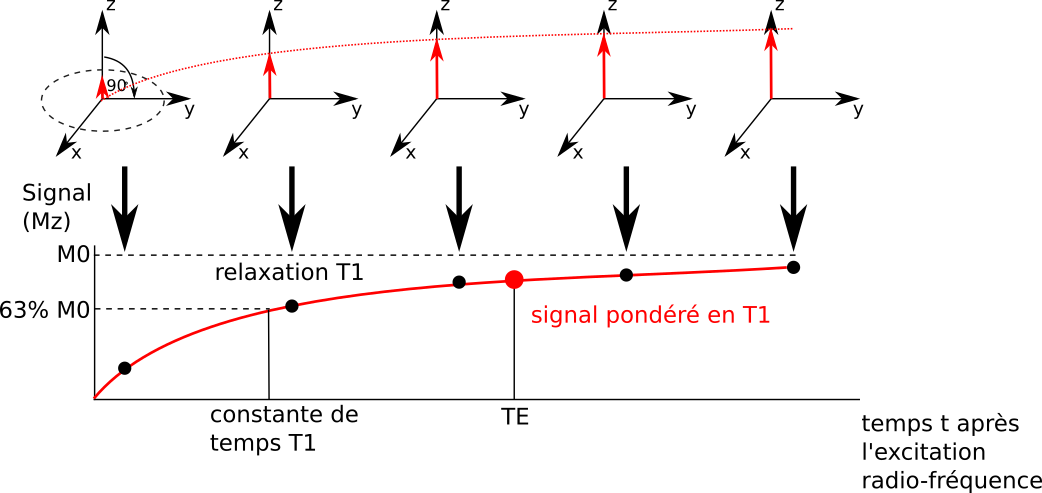
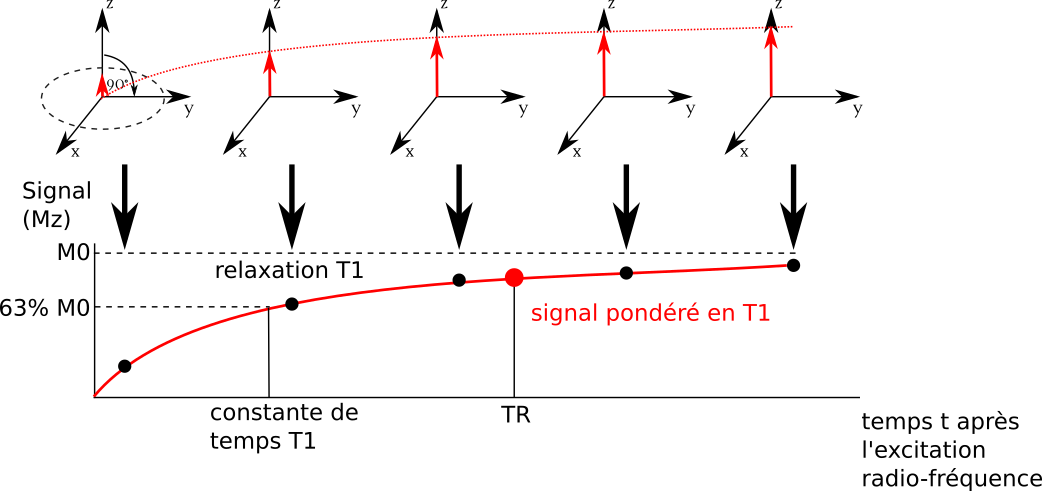
Corriger la pondération T1: c'est le TR, pas le TE
La courbe de repousse longitudinale était décrite comme échantillonnée au TE,
dans le texte, dans la figure t1.svg et dans le code de relax-t1-fig. Le TE est
le délai jusqu'à la lecture de l'aimantation transverse; ce qui fixe le point
atteint sur la repousse, et donc le contraste T1, est le TR. La figure 3 de
Ridgway (2010), dont t1.svg est l'adaptation, ne porte aucune marque TE.

Ajoute au passage la raison pour laquelle un TR est nécessaire: l'antenne ne
détecte que l'aimantation transverse, donc lire la repousse suppose de
rebasculer l'aimantation.

Autres corrections du même chapitre:
- les T1 des trois tissus étaient inversés dans le code de relax-t1-fig (les
  valeurs du bloc T2 y avaient été recopiées); le LCR a le T1 le plus long
- ylabel de la courbe T2: Mz -> Mxy
- la composante transverse est nommée Mxy et non "selon B1", qui est un champ
  tournant et éteint pendant la relaxation
- ouverture des appareils: 70 et 60 cm de diamètre, non de rayon; Aeara -> Aera
- fréquence d'excitation à 3T: 128 MHz et non 120
- liens vers psy3018.github.io remplacés par des renvois MyST internes
- l'encadré sur l'angle de bascule explique maintenant son effet sur le TR,
  ce que l'exercice 5 demandait sans que le texte le dise
- une section sur les familles de séquences (écho de spin, écho de gradient) et
  quelques noms courants: MPRAGE, FLAIR, EPI
- mention du SAR, supraconductrice, miroirs

Corrige enfin un bug latent des deux cellules de figures: importer
[…]

diff --git a/methodes_neurocog/irm.md b/methodes_neurocog/irm.md
@@ -29,7 +29,7 @@ name: irm-schema-fig
 Illustration schématique des principales composantes d'un appareil IRM. Figure générée par P. Bellec, 2021, sous licence CC-BY.
 ```
 {numref}`irm-schema-fig` nous permet d'observer les éléments principaux d'un appareil IRM, et en particulier:
- * L'**aimant**: il s'agit d'une bobine qui génère un champ magnétique très important. Cette bobine est plongée dans de l'hélium liquide, proche du zéro absolu, ce qui la rend supra-condutrice: le courant électrique qui la traverse ne subit pas de perte d'énergie, et peut continuer de circuler pendant très longtemps. Pour cette raison, l'aimant de l'IRM continue de fonctionner en permanence, même quand on n'utilise pas la machine.
+ * L'**aimant**: il s'agit d'une bobine qui génère un champ magnétique très important. Cette bobine est plongée dans de l'hélium liquide, proche du zéro absolu, ce qui la rend supraconductrice: le courant électrique qui la traverse ne subit pas de perte d'énergie, et peut continuer de circuler pendant très longtemps. Pour cette raison, l'aimant de l'IRM continue de fonctionner en permanence, même quand on n'utilise pas la machine.
 
  * Les **bobines de gradient**: permettent de faire varier l'intensité du champ magnétique dans l'espace. Durant l'acquisition des images, les gradients sont activés puis arrêtés plusieurs fois. Les gradients peuvent être produits dans toutes les directions.  
 
@@ -65,7 +65,8 @@ HTML('<iframe width="560" height="315" src="https://www.youtube.com/embed/bq6Iha
 
 ```{admonition} IRM et sécurité
 L’IRM est non invasif: il n’existe pas d’effet adverse connu sur la santé de l’exposition à un champ magnétique fort.
-En revanche, il faut s’assurer qu’il n’y ait pas de contre-indications, telles que la présence de certains métaux dans le corps ou des équipements médicaux tels qu’un pace maker.
+Les impulsions radio-fréquence déposent en revanche de l’énergie dans les tissus, sous forme de chaleur. Cette dose, appelée SAR (_specific absorption rate_), est surveillée en permanence et plafonnée par l’appareil.
+Il faut également s’assurer qu’il n’y ait pas de contre-indications, telles que la présence de certains métaux dans le corps ou des équipements médicaux tels qu’un pace maker.
 Le champ magnétique peut également attirer les objets métalliques et provoquer des accidents. Pour cette raison le personnel qui opère dans une salle d’IRM doit recevoir une formation adéquate aux mesures de sécurité.
 ```
 
@@ -87,7 +88,7 @@ Un atome d'hydrogène possède une fréquence de Larmor de 42.58 MHz/Tesla. Cett
 En l'absence de champ magnétique, les spins des atomes d'hydrogène pointent dans des directions aléatoires dans les tissus cérébraux. L'aimant de l'IRM contribue à aligner le moment magnétique des protons selon le même axe que le champ magnétique principal, appelé B0. Ce champ B0 va des pieds vers la tête. La force de l'aimant principal est mesurée en Teslas (T). Les appareils de 1.5T sont utilisés principalement à des fins cliniques alors qu'en recherche, le standard est plutôt de 3T, ce qui est environ 60000 fois plus puissant que le champ magnétique terrestre! Les appareils à 7T représentent à ce jour la nouvelle frontière utilisée en recherche, et quelques appareils à 10T+ existent dans le monde. Mais pourquoi voudrions-nous augmenter la force du champ magnétique? En augmentant la force du champ magnétique, nous pouvons gagner en résolution spatiale et temporelle. Par contre, augmenter la force du champ magnétique peut également introduire des artefacts!
 
 ```{admonition} Taille et poids d'un appareil IRM
-La taille et le poids d'un appareil IRM peut varier beaucoup. Par exemple, l'IRM 1.5T de type Aeara de la compagnie Siemens pèse 4.3 tonnes, et a une ouverture (le tube dans lequel entre la personne qui fait l'examen) de 70 cm de rayon. L'appareil 3T de type Prisma de Siemens pèse 13 tonnes et a une ouverture de 60 cm de rayon. Enfin, L'IRM 7T de type Terra de Siemens fait lui presque 25 tonnes, avec la même taille d'ouverture que l'appareil à 3T! En général, plus la force du champ magnétique B0 est grande et plus l'appareil est lourd.
+La taille et le poids d'un appareil IRM peut varier beaucoup. Par exemple, l'IRM 1.5T de type Aera de la compagnie Siemens pèse 4.3 tonnes, et a une ouverture (le tube dans lequel entre la personne qui fait l'examen) de 70 cm de diamètre. L'appareil 3T de type Prisma de Siemens pèse 13 tonnes et a une ouverture de 60 cm de diamètre. Enfin, L'IRM 7T de type Terra de Siemens fait lui presque 25 tonnes, avec la même taille d'ouverture que l'appareil à 3T! En général, plus la force du champ magnétique B0 est grande et plus l'appareil est lourd.
 ```
 
 
@@ -111,7 +112,7 @@ Nous pouvons penser à la résonance comme un mouvement de balançoire. Si nous 
 
 L'IRM exploite ce phénomène de résonance. **L'antenne radio-fréquence (RF)** crée une série d'**ondes radio-fréquences** dans la direction perpendiculaire au champ B0, c'est-à-dire en direction du champ B1. En produisant une série d'impulsions suivant la fréquence de Larmor de l'hydrogène, les atomes d'hydrogène entrent en résonance et basculent dans la direction perpendiculaire.
 
-En arrêtant les impulsions, les atomes d'hydrogène entrent en relaxation, c'est-à-dire que leur moment magnétique va retourner dans la direction initiale B0. Autrement dit, le moment magnétique en direction B1 décroît pour revenir dans la direction B0. Ce phénomène de relaxation est très important, car la vitesse de la relaxation va dépendre des caractéristiques des tissus qui ont été excités. La vitesse de relaxation est mesurée par les antennes de réception placées dans le casque autour de la tête du sujet!
+En arrêtant les impulsions, les atomes d'hydrogène entrent en relaxation, c'est-à-dire que leur moment magnétique va retourner dans la direction initiale B0. Autrement dit, la composante transverse du moment magnétique, dans le plan perpendiculaire à B0, décroît pendant que la composante alignée sur B0 repousse. Ce phénomène de relaxation est très important, car la vitesse de la relaxation va dépendre des caractéristiques des tissus qui ont été excités. La vitesse de relaxation est mesurée par les antennes de réception placées dans le casque autour de la tête du sujet!
 
 ```{admonition} Mise en phase
 :class: tip
@@ -121,7 +122,7 @@ Il est important de comprendre que le signal que nous mesurons en IRM ne provien
 ```
 
 ```{admonition} Pourquoi radio?
-Comme nous l'avons vu, la fréquence de Larmor de l'hydrogène est de 42.58 MHz/Tesla. Dans un IRM à 3T, nous allons donc exciter avec une onde à une fréquence d'environ 120 MHz, soit 120 millions d'ondes par seconde (!). Ce type de fréquences tombe dans le domaine des [ondes radio](https://fr.wikipedia.org/wiki/Onde_radio).
+Comme nous l'avons vu, la fréquence de Larmor de l'hydrogène est de 42.58 MHz/Tesla. Dans un IRM à 3T, nous allons donc exciter avec une onde à une fréquence d'environ 128 MHz, soit près de 128 millions d'ondes par seconde (!). Ce type de fréquences tombe dans le domaine des [ondes radio](https://fr.wikipedia.org/wiki/Onde_radio).
 ```
 
 ## Sélection de coupes et formation d'images  
@@ -167,10 +168,10 @@ Les contrastes $T_1$ et $T_2$ sont les paramètres principaux acquis durant une 
 width: 800px
 name: t1-fig
 ---
-Le processus de relaxation $T_1$. Pour un voxel donné, on mesure la repousse du champ magnétique selon l'axe $B_0$. La vitesse de cette repousse dépend de deux paramètres: la valeur d'équilibre $M_0$ et le temps $T_1$. En général, on ne mesure qu'un seul point de la courbe, au temps `TE`, et on parle alors de signal pondéré en $T_1$. Figure adaptée de {cite:p}`Ridgway2010-dc` sous license [CC-BY 2.0](https://creativecommons.org/licenses/by/2.0).
+Le processus de relaxation $T_1$. Pour un voxel donné, on mesure la repousse de l'aimantation selon l'axe $B_0$. La vitesse de cette repousse dépend de deux paramètres: la valeur d'équilibre $M_0$ et le temps $T_1$. En général, on ne laisse pas la repousse aller à son terme: on lit le signal au bout d'un temps `TR`, et on parle alors de signal pondéré en $T_1$. Figure adaptée de {cite:p}`Ridgway2010-dc` sous license [CC-BY 2.0](https://creativecommons.org/licenses/by/2.0).
 ```
 
-**Pondération en $T_1$**. Pour estimer le paramètre $T_1$, il est nécessaire d'effectuer plusieurs mesures au cours du temps pour évaluer la croissance de la courbe. En général, on ne mesure qu'un seul point de la courbe, au temps `TE`, et on parle alors de signal pondéré en $T_1$. Si le paramètre $T_1$ augmente, cela veut dire que la courbe croit plus lentement, et le signal pondéré en $T_1$ va diminuer. Différents tissus (matière grise, matière blanche, liquide céphalo-rachidien) ont des caractéristiques $T_1$ différentes, ce qui permet d'obtenir des images d'IRM structurelle.
+**Pondération en $T_1$**. Pour estimer le paramètre $T_1$, il est nécessaire d'effectuer plusieurs mesures au cours du temps pour évaluer la croissance de la courbe. En général, on ne mesure qu'un seul point de la courbe. L'antenne ne peut pas mesurer directement l'aimantation $M_z$, qui est alignée sur $B_0$: pour lire où en est la repousse, il faut d'abord rebasculer l'aimantation dans le plan transverse. Le temps laissé à la repousse avant cette lecture s'appelle le `TR`. On parle alors de signal pondéré en $T_1$. Si le paramètre $T_1$ augmente, cela veut dire que la courbe croit plus lentement, et le signal pondéré en $T_1$ va diminuer. Différents tissus (matière grise, matière blanche, liquide céphalo-rachidien) ont des caractéristiques $T_1$ différentes, ce qui permet d'obtenir des images d'IRM structurelle.
 
 ```{code-cell} ipython 3
 :tags: ["hide-input", "remove-output"]
@@ -180,17 +181,24 @@ import warnings
 warnings.filterwarnings("ignore")
 
 # Importer les librairies nécessaires
+# Note: nilearn.plotting doit être importé AVANT de créer la figure. Son import
+# bascule le backend matplotlib, ce qui vide le registre des figures de pyplot et
+# détacherait une figure déjà ouverte.
 import matplotlib.pyplot as plt
 import numpy as np
+from nilearn.datasets import fetch_icbm152_2009
+from nilearn.plotting import plot_anat
 
 # Initialise la figure
 fig = plt.figure(figsize=(15, 5))
 
 # Fonctions exponentielles pour les courbes T1 (à titre d'exemple seulement)
+# Le liquide céphalo-rachidien a le T1 le plus long et la densité de protons la
+# plus élevée; la matière blanche le T1 le plus court et la densité la plus faible.
 t = np.linspace(0,5,100)
-y1 = 70 * (1 - np.exp(-t / 1.2))
-y2 = 85 * (1 - np.exp(-t / 1.3))
-y3 = 100 * (1 - np.exp(-t / 1.5))
+y1 = 100 * (1 - np.exp(-t / 4.0))
+y2 = 84 * (1 - np.exp(-t / 1.3))
+y3 = 70 * (1 - np.exp(-t / 0.85))
 
 # Tracer la figure
 ax_plot = plt.subplot(1, 3, 1)
@@ -198,9 +206,7 @@ plt.plot(t, y1, label="Liquide céphalo-rachidien")
 plt.plot(t, y2, label="matière grise")
 plt.plot(t, y3, label="matière blanche")
 plt.vlines(1, 0, 60, colors="black", linestyles="--")
-plt.text(1, 60, "TE")
-plt.vlines(4, 0, 60, colors="black", linestyles="--")
-plt.text(4, 60, "TR")
+plt.text(1, 60, "TR")
 plt.xlabel("Temps", loc="right")
 plt.ylabel("Mz", loc="top")
 plt.title("Courbe en T1")
@@ -208,10 +214,7 @@ plt.legend()
 plt.gca().axes.yaxis.set_ticklabels([])
 plt.gca().axes.xaxis.set_ticklabels([])
 
-#Importer les modules requis et le jeu de données
-from nilearn.datasets import fetch_icbm152_2009
-from nilearn.plotting import plot_anat
-
+# Charger le jeu de données
 data_mri = fetch_icbm152_2009()
 
 # afficher l'image pondérée en T1
@@ -230,7 +233,7 @@ fig.savefig(
 ---
 name: relax-t1-fig
 ---
-Relaxation longitudinale et contraste $T_1$. Image de gauche: croissance du champ magnétique selon l'axe $B_0$, appelé $M_{z}$. Notez que différents types de tissus présentent des courbes distinctes de relaxation longitudinale. Image de droite: une image générée par lecture au temps $TE$ (pondéré en $T_1$) présente un contraste entre les différents types de tissus. Cette figure est générée par du code python, cliquer sur + pour voir le code.
+Relaxation longitudinale et contraste $T_1$. Image de gauche: croissance de la composante de l'aimantation selon l'axe $B_0$, appelée $M_{z}$. Notez que différents types de tissus présentent des courbes distinctes de relaxation longitudinale. Image de droite: une image générée par lecture au temps $TR$ (pondéré en $T_1$) présente un contraste entre les différents types de tissus. Cette figure est générée par du code python, cliquer sur + pour voir le code.
 ```
 
 ```{admonition} M0
@@ -239,17 +242,17 @@ Relaxation longitudinale et contraste $T_1$. Image de gauche: croissance du cham
 À l'état d'équilibre, la contribution du moment magnétique selon l'axe $B_0$ est appelée $M_0$. Cette valeur dépend de la densité de protons dans les tissus, c'est-à-dire du nombre d'atomes d'hydrogène présents dans le tissu. Ainsi, d'un voxel à un autre, nous n'obtenons pas nécessairement la même valeur de $M_0$. Il est possible d'imager ce paramètre, et on parle alors d'image en densité de protons (PD en anglais, pour proton density).
 ```
 
-**Relaxation en $T_2$**. La diminution de la composante selon $B_1$ (composante $M_{xy}$), ou _relaxation transverse_, suit une fonction exponentielle décroissante. Le temps caractéristique de cette décroissance (la vitesse de décroissance) s'appelle le $T_2$. Le temps $T_2$ correspond au temps écoulé pour obtenir 37% de la valeur de la contribution du moment magnétique initial selon l'axe $B_1$. Pour ceux qui sont à l'aise avec les expressions mathématiques, la décroissance en $B_1$ suit l'équation $M_{xy}(t) = M_1 e^{-t / T_2}$. La constante $M_1$ va dépendre entre autres choses de la densité de protons, comme $M_0$, et va varier d'un tissu à l'autre.
+**Relaxation en $T_2$**. La diminution de la composante transverse du moment magnétique (composante $M_{xy}$, dans le plan perpendiculaire à $B_0$), ou _relaxation transverse_, suit une fonction exponentielle décroissante. Le temps caractéristique de cette décroissance (la vitesse de décroissance) s'appelle le $T_2$. Le temps $T_2$ correspond au temps écoulé pour obtenir 37% de la valeur de l'aimantation transverse initiale. Pour ceux qui sont à l'aise avec les expressions mathématiques, la décroissance de $M_{xy}$ suit l'équation $M_{xy}(t) = M_1 e^{-t / T_2}$. La constante $M_1$ va dépendre entre autres choses de la densité de protons, comme $M_0$, et va varier d'un tissu à l'autre.
 
 ```{figure} ./irm/t2.png
 ---
 width: 800px
 name: t2-fig
 ---
-Le processus de relaxation $T_2$. Pour un voxel donné, on mesure la décroissance du champ magnétique selon l'axe $B_1$. La vitesse de cette décroissance dépend du temps $T_2$. En général, on ne mesure qu'un seul point de la courbe, au temps `TE`, et on parle alors de signal pondéré en $T_2$. Figure adaptée de {cite:p}`Ridgway2010-dc` sous license [CC-BY 2.0](https://creativecommons.org/licenses/by/2.0).
+Le processus de relaxation $T_2$. Pour un voxel donné, on mesure la décroissance de l'aimantation transverse $M_{xy}$. La vitesse de cette décroissance dépend du temps $T_2$. En général, on ne mesure qu'un seul point de la courbe, au temps `TE`, et on parle alors de signal pondéré en $T_2$. Figure adaptée de {cite:p}`Ridgway2010-dc` sous license [CC-BY 2.0](https://creativecommons.org/licenses/by/2.0).
 ```
 
-**Pondération en $T_2$**. Comme vu précédemment, on ne mesure généralement qu'un seul point de la courbe, au temps `TE`, et on parle alors de signal pondéré en $T_2$. Si le paramètre $T_2$ augmente, cela veut dire que la courbe décroit plus lentement, et le signal pondéré en $T_2$ va augmenter. Différents tissus (matière grise, matière blanche, liquide céphalo-rachidien) ont des caractéristiques $T_2$ différentes, ce qui permet d'obtenir des images d'IRM structurelle comme pour le $T_1$. En général, les images $T_1$ et $T_2$ sont presque mirroirs l'une de l'autre, mais comme le $T_2$ est très sensible au déphasage, l'information capturée sur les tissus est complémentaire.
+**Pondération en $T_2$**. Comme vu précédemment, on ne mesure généralement qu'un seul point de la courbe, au temps `TE`, et on parle alors de signal pondéré en $T_2$. Si le paramètre $T_2$ augmente, cela veut dire que la courbe décroit plus lentement, et le signal pondéré en $T_2$ va augmenter. Différents tissus (matière grise, matière blanche, liquide céphalo-rachidien) ont des caractéristiques $T_2$ différentes, ce qui permet d'obtenir des images d'IRM structurelle comme pour le $T_1$. En général, les images $T_1$ et $T_2$ sont presque miroirs l'une de l'autre, mais comme le $T_2$ est très sensible au déphasage, l'information capturée sur les tissus est complémentaire.
 
 
 ```{code-cell} ipython 3
@@ -260,8 +263,13 @@ import warnings
 warnings.filterwarnings("ignore")
 
 # Importer les librairies nécessaires
+# Note: nilearn.plotting doit être importé AVANT de créer la figure. Son import
+# bascule le backend matplotlib, ce qui vide le registre des figures de pyplot et
+# détacherait une figure déjà ouverte.
 import matplotlib.pyplot as plt
 import numpy as np
+from nilearn.datasets import fetch_icbm152_2009
+from nilearn.plotting import plot_anat
 
 # Initialise la figure
 fig = plt.figure(figsize=(15, 5))
@@ -282,16 +290,13 @@ plt.text(1.1, 60, "TE")
 plt.vlines(4, 0, 60, colors="black", linestyles="--")
 plt.text(4, 60, "TR")
 plt.xlabel("Temps", loc="right")
-plt.ylabel("Mz", loc="top")
+plt.ylabel("Mxy", loc="top")
 plt.title("Courbe en T2")
 plt.legend()
 plt.gca().axes.yaxis.set_ticklabels([])
 plt.gca().axes.xaxis.set_ticklabels([])
 
-#Importer les modules requis et le jeu de données
-from nilearn.datasets import fetch_icbm152_2009
-from nilearn.plotting import plot_anat
-
+# Charger le jeu de données
 data_mri = fetch_icbm152_2009()
 
 # afficher l'image pondérée en T2
@@ -311,17 +316,17 @@ fig.savefig(
 ---
 name: relax-t2-fig
 ---
-Relaxation transverse et contraste $T_2$. Image de gauche: décroissance du champ magnétique selon l'axe $B_1$, appelé $M_{xy}$. Notez que différents types de tissus présentent des courbes distinctes de relaxation transverse. Image de droite: une image générée par lecture au temps $TE$ présente un contraste entre les différents types de tissus. Ce contraste est pour l'essentiel inversé par rapport au contraste $T_1$. Cette figure est générée par du code python, cliquer sur + pour voir le code.
+Relaxation transverse et contraste $T_2$. Image de gauche: décroissance de la composante transverse de l'aimantation, appelée $M_{xy}$. Notez que différents types de tissus présentent des courbes distinctes de relaxation transverse. Image de droite: une image générée par lecture au temps $TE$ présente un contraste entre les différents types de tissus. Ce contraste est pour l'essentiel inversé par rapport au contraste $T_1$. Cette figure est générée par du code python, cliquer sur + pour voir le code.
 ```
 ```{admonition} $TE$
-Lorsque nous acquérons des données IRM, nous ne mesurons généralement pas toute la courbe de relaxation, mais simplement un point de mesure au temps $TE$. En choisissant le $TE$ adéquatement, nous allons obtenir des valeurs de lecture très différentes pour les différents tissus. Le temps $TE$ sera différent pour un contraste $T_1$ et un contraste $T_2$.
+Lorsque nous acquérons des données IRM, nous ne mesurons généralement pas toute la courbe de relaxation, mais simplement un point de mesure au temps $TE$. En choisissant le $TE$ adéquatement, nous allons obtenir des valeurs de lecture très différentes pour les différents tissus. Le temps $TE$ est le délai entre l'excitation et la lecture: c'est lui qui fixe le point de mesure sur la courbe de décroissance transverse.
 ```
 
 ```{admonition} $TR$
-Nous appelons $TR$ le temps qui sépare deux excitations radiofréquence. Pour obtenir un **IRM structurel** complet, plusieurs centaines de TRs sont nécessaires. Il existe une autre définition, spécifique à la communauté **IRM fonctionnelle**, qui dit que le TR est la durée qui sépare deux volumes IRMf.
+Nous appelons $TR$ le temps qui sépare deux excitations radiofréquence. C'est donc aussi le temps laissé à la repousse longitudinale avant la lecture suivante: c'est le $TR$ qui fixe le contraste $T_1$. Pour obtenir un **IRM structurel** complet, plusieurs centaines de TRs sont nécessaires. Il existe une autre définition, spécifique à la communauté **IRM fonctionnelle**, qui dit que le TR est la durée qui sépare deux volumes IRMf.
 ```
 ```{admonition} Angle de bascule
-Si nous nous intéressons à la fin du processus de relaxation, nous n'avons pas besoin de basculer les spins complètement dans la direction $B_1$, mais simplement à un certain nombre de degrés de $B_0$. Ce paramètre est appelé angle de bascule ("flip angle" en anglais).
+Nous n'avons pas besoin de basculer les spins complètement dans le plan transverse: nous pouvons nous contenter de les écarter de $B_0$ d'un certain nombre de degrés. Ce paramètre est appelé angle de bascule ("flip angle" en anglais). Un angle plus faible produit un signal moins intense, mais il laisse une partie de l'aimantation alignée sur $B_0$: la repousse longitudinale a donc moins de chemin à parcourir, et nous pouvons ré-exciter plus tôt. C'est de cette manière que l'on raccourcit le $TR$ pour accélérer une acquisition.
 ```
 ```{admonition} $T_1$ vs $T_2$: cherchez la différence.
 :class: tip
@@ -332,10 +337,10 @@ Pourquoi s'embêter à faire des contrastes $T_1$ et $T_2$ quand l'un semble êt
 ## $T_2^*$, IRMf, IRMd
 **Déphasage.** Comme nous l'avons vu dans l'encadré {ref}`sur la phase <phase-tip>`, les impulsions radiofréquences vont non seulement faire basculer les spins, mais aussi les mettre en phase. Lorsque nous arrêtons les impulsions, les spins vont progressivement se déphaser. Ce déphasage est dû à des micro-interactions entre protons ainsi que des molécules des tissus qui présentent des propriétés magnétiques. La courbe de relaxation $T_2$ va avoir la même forme, mais avec des temps caractéristiques modifiés, que nous appelons $T_2^*$.
 
-**IRM fonctionnelle.** Les inhomogénéités dans le champ magnétique qui causent le déphasage peuvent notamment être créées par la désoxyhémoglobine que nous retrouvons dans le sang. Nous allons voir plus en détails comment l'oxyhémoglobine et la désoxyhémoglobine perturbent le champ magnétique dans le chapitre sur l'[IRM fonctionnelle](https://psy3018.github.io/irm_fonctionnelle.html). En IRM fonctionnelle, nous utilisons des séquences pondérées en $T_2^*$.
+**IRM fonctionnelle.** Les inhomogénéités dans le champ magnétique qui causent le déphasage peuvent notamment être créées par la désoxyhémoglobine que nous retrouvons dans le sang. Nous allons voir plus en détails comment l'oxyhémoglobine et la désoxyhémoglobine perturbent le champ magnétique dans le chapitre sur l'[IRM fonctionnelle](irm_fonctionnelle). En IRM fonctionnelle, nous utilisons des séquences pondérées en $T_2^*$.
 
 
-**IRM de diffusion.** En IRM de diffusion, nous mesurons aussi un déphasage, mais ce déphasage est produit par le déplacement des molécules d'eau le long d'un gradient magnétique fort. En effectuant plusieurs images avec des directions de gradients différentes, nous pouvons obtenir une idée de l'amplitude et de la direction de diffusion des molécules d'eau. Cette opération nous permet au final de connaître la direction des fibres de matière blanche. Nous allons revenir sur ce sujet dans le chapitre sur [l'IRM de diffusion](https://psy3018.github.io/irm_diffusion.html)
+**IRM de diffusion.** En IRM de diffusion, nous mesurons aussi un déphasage, mais ce déphasage est produit par le déplacement des molécules d'eau le long d'un gradient magnétique fort. En effectuant plusieurs images avec des directions de gradients différentes, nous pouvons obtenir une idée de l'amplitude et de la direction de diffusion des molécules d'eau. Cette opération nous permet au final de connaître la direction des fibres de matière blanche. Nous allons revenir sur ce sujet dans le chapitre sur [l'IRM de diffusion](irm_diffusion).
 
 ## Console et séquences d'acquisition.
 ```{figure} ./irm/irm_console.png
@@ -347,6 +352,8 @@ Connexions entre la console et les différentes parties d'un système IRM. Figur
 ```
 
 L'ensemble des éléments de l'appareil IRM peuvent être contrôlés par la console (voir {numref}`irm-console-fig`). Nous avons vu ensemble les principes clés de l'IRM, mais une image réelle est acquise avec une série complexe d'excitations et de mesures, que l'on appelle une _séquence d'acquisition_.
+
+Les séquences se regroupent en deux grandes familles, selon la manière dont le signal est relu. L'**écho de spin** ajoute une impulsion supplémentaire qui vient remettre en phase les spins déphasés par les inhomogénéités du champ: le signal obtenu ne dépend alors que du $T_2$. L'**écho de gradient** ne corrige pas ce déphasage, ce qui le rend plus rapide et donne accès au $T_2^*$. Chaque constructeur donne ensuite ses propres noms aux séquences qu'il propose. On rencontre couramment le **MPRAGE** pour l'anatomie pondérée en $T_1$, le **FLAIR** pour une image pondérée en $T_2$ dans laquelle le signal du liquide céphalo-rachidien est supprimé, et l'**EPI** (_echo planar imaging_), très rapide, utilisé aussi bien en IRM fonctionnelle qu'en IRM de diffusion.
 
 ```{figure} ./irm/fov.png
 ---
@@ -414,7 +421,7 @@ On décide de modifier une séquence IRM pour diminuer l’angle de bascule: les
 
 ```{admonition} Exercice 6
 :class: note
-Expliquez comment le temps d'écho (TE) influence le niveau d'intensité d'une image pondérée en T1, ainsi que le contraste entre les différents types de tissus.
+Expliquez comment le temps de répétition (TR) influence le niveau d'intensité d'une image pondérée en T1, ainsi que le contraste entre les différents types de tissus.
 ```
 
 ```{admonition} Exercice 7
